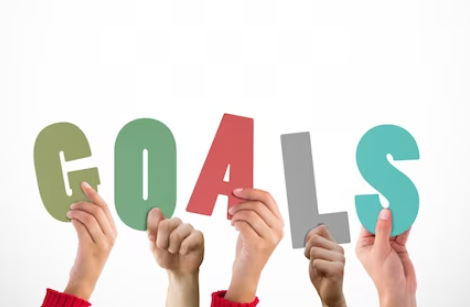
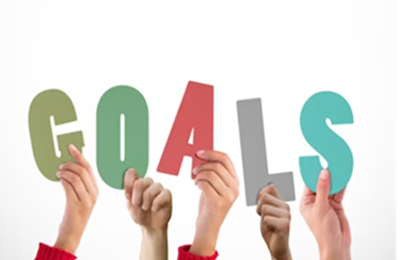
update

diff --git a/index.html b/index.html
@@ -18,9 +18,9 @@ Date: 4/25/2024
 
     <!-- Use the header area for the website name or logo -->
     <header>
+        <a href="index.html"><img src="images/logo.png" alt="Suzanne Lucas Logo"></a>
         <h1>Suzanne Lucas</h1>
         <h3>Back-End Web Developer</h3>
-        <a href="index.html"><img src="images/logo.png" alt="Suzanne Lucas Logo" height="220" width="220"></a>
     </header>
 
     <!-- Use the nav area to add hyperlinks to other pages within the website -->
@@ -29,18 +29,24 @@ Date: 4/25/2024
             <li><a href="index.html">About</a></li>
             <li><a href="experience.html">Experience</a></li>
             <li><a href="projects.html">Projects</a></li>
-            <li><a href="contact.html">Contact Me</a></li>
+            <li><a href="contact.html">Contact</a></li>
         </ul>
     </nav>
+
+    <!-- Hero Image -->
+    <div id="hero" class="tab-desk">
+        <img src="images/hero-flowers.png" alt="colorful flower border">
+    </div>
 
     <!-- Use the main area to add the main content of the webpage -->
     <main>
 
-        <div id="intro">
+        <div id="about">
             <h1>About Me</h1>
-            <img src="images/who-am-i.png" alt="hand holding pen and writing Who am I?" height="300" width="450">
-            <p>Hello! I'm Suzanne and I specialize in Web Development on the Back-End side of things!</p>
-            <p>I'm married (for 18 yrs!) and a mother of 5 children (17g,14g,10b,10b,9g). My oldest is leaving for college in August!</p>
+            <img src="images/who-am-i.png" alt="hand holding pen and writing Who am I?">
+            <p>Hello! I'm Suzanne Lucas and I specialize in Web Development on the Back-End side of things!</p>
+            <p>I'm married (for 18 yrs!) and a mother of 5 children (17g,14g,10b,10b,9g).</p>
+            <p>My oldest is leaving for college in August!</p>
             <p>I love to learn, be challenged, and work with a team on projects and ideas.</p>
             <p>Feel free to snoop around on my social media.</p>
             <p>For inquiries or a "How you doing"...Contact Me!</p>
@@ -48,14 +54,16 @@ Date: 4/25/2024
 
         <div id="goals">
             <h1>Goals</h1>
-            <img src="images/goals.png" alt="hands holding letters that spell Goals" height="300" width="450">
-            <p>My goal is to find a career I love in Back-End Web Development that will enable me to apply my knowledge past and present.</p>
-            <p>I'm looking for a fun and flexible environment in which to engage, apply my knowledge and continue to grow.</p>
+            <img src="images/goals.png" alt="hands holding letters that spell Goals">
+            <p>My goal is to find a career I love in Back-End Web Development</p>
+            <p>that will enable me to apply my knowledge past and present.</p>
+            <p>I'm looking for a fun and flexible environment in which to</p>
+            <p>engage, apply my knowledge and continue to grow.</p>
         </div>
 
         <div id="education">
             <h1>Education</h1>
-            <img src="images/education.png" alt="stack of books with a graduation cap on top" height="300" width="450">
+            <img src="images/education.png" alt="stack of books with a graduation cap on top">
             <p>I hold a BS and MS in Information Systems. I am currently working on my A.A.S degree in Web Development.</p>
             <p>If you never try... you never know and grow! Learning is fun!</p>
         </div>

diff --git a/contact.html b/contact.html
@@ -18,9 +18,9 @@ Date: 4/25/2024
 
     <!-- Use the header area for the website name or logo -->
     <header>
+        <a href="index.html"><img src="images/logo.png" alt="Suzanne Lucas Logo"></a>
         <h1>Suzanne Lucas</h1>
         <h3>Back-End Web Developer</h3>
-        <a href="index.html"><img src="images/logo.png" alt="Suzanne Lucas Logo" height="220" width="220"></a>
     </header>
 
     <!-- Use the nav area to add hyperlinks to other pages within the website -->
@@ -29,9 +29,14 @@ Date: 4/25/2024
             <li><a href="index.html">About</a></li>
             <li><a href="experience.html">Experience</a></li>
             <li><a href="projects.html">Projects</a></li>
-            <li><a href="contact.html">Contact Me</a></li>
+            <li><a href="contact.html">Contact</a></li>
         </ul>
     </nav>
+
+    <!-- Hero Image -->
+    <div id="hero" class="tab-desk">
+        <img src="images/hero-flowers.png" alt="colorful flower border">
+    </div>
 
     <!-- Use the main area to add the main content of the webpage -->
     <main>

diff --git a/template.html b/template.html
@@ -18,9 +18,9 @@ Date: 4/25/2024
 
     <!-- Use the header area for the website name or logo -->
     <header>
+        <a href="index.html"><img src="images/logo.png" alt="Suzanne Lucas Logo"></a>
         <h1>Suzanne Lucas</h1>
         <h3>Back-End Web Developer</h3>
-        <a href="index.html"><img src="images/logo.png" alt="Suzanne Lucas Logo" height="220" width="220"></a>
     </header>
 
     <!-- Use the nav area to add hyperlinks to other pages within the website -->
@@ -29,9 +29,14 @@ Date: 4/25/2024
             <li><a href="index.html">About</a></li>
             <li><a href="experience.html">Experience</a></li>
             <li><a href="projects.html">Projects</a></li>
-            <li><a href="contact.html">Contact Me</a></li>
+            <li><a href="contact.html">Contact</a></li>
         </ul>
     </nav>
+
+    <!-- Hero Image -->
+    <div id="hero" class="tab-desk">
+        <img src="images/hero-flowers.png" alt="colorful flower border">
+    </div>
 
     <!-- Use the main area to add the main content of the webpage -->
     <main>

diff --git a/css/styles.css b/css/styles.css
@@ -1,10 +1,17 @@
 body {
-    background-color: #d6c9f2 ;
+    /*background-color: #d6c9f2;*/
+    background-color: #b99ad9;
+}
+
+img {
+    max-width: 100%;
+    display: block;
 }
 
 header {
     width: 25%;
     float: left;
+    color: #34282C;
 }
 
 nav {
@@ -13,6 +20,48 @@ nav {
     margin: 5em 3em 0 0;
 }
 
+nav ul {
+    list-style-type: none;
+    margin: 0;
+    text-align: right;
+}
+
+nav li {
+    display:inline-block;
+    font-size: 2em;
+}
+
+nav li a {
+    display: block;
+    color: 34282C;
+    text-align: center;
+    padding: 0.5em 1em;
+    text-decoration: none;
+}
+
 main {
     clear: left;
+    background-color: #d6c9f2;
+    padding: 2%;
+    font-size: 1.25em;
+    color: #34282C;
+}
+
+#about, #goals, #education {
+    width: 32%;
+    float: left;
+    margin: 0 2;
+}
+
+
+footer p, a {
+    text-align: center;
+    font-size: 1em;
+    color:#34282C;
+    padding: 0 1em;
+}
+
+footer a {
+    color:#34282C;
+    text-decoration: none;
 }
